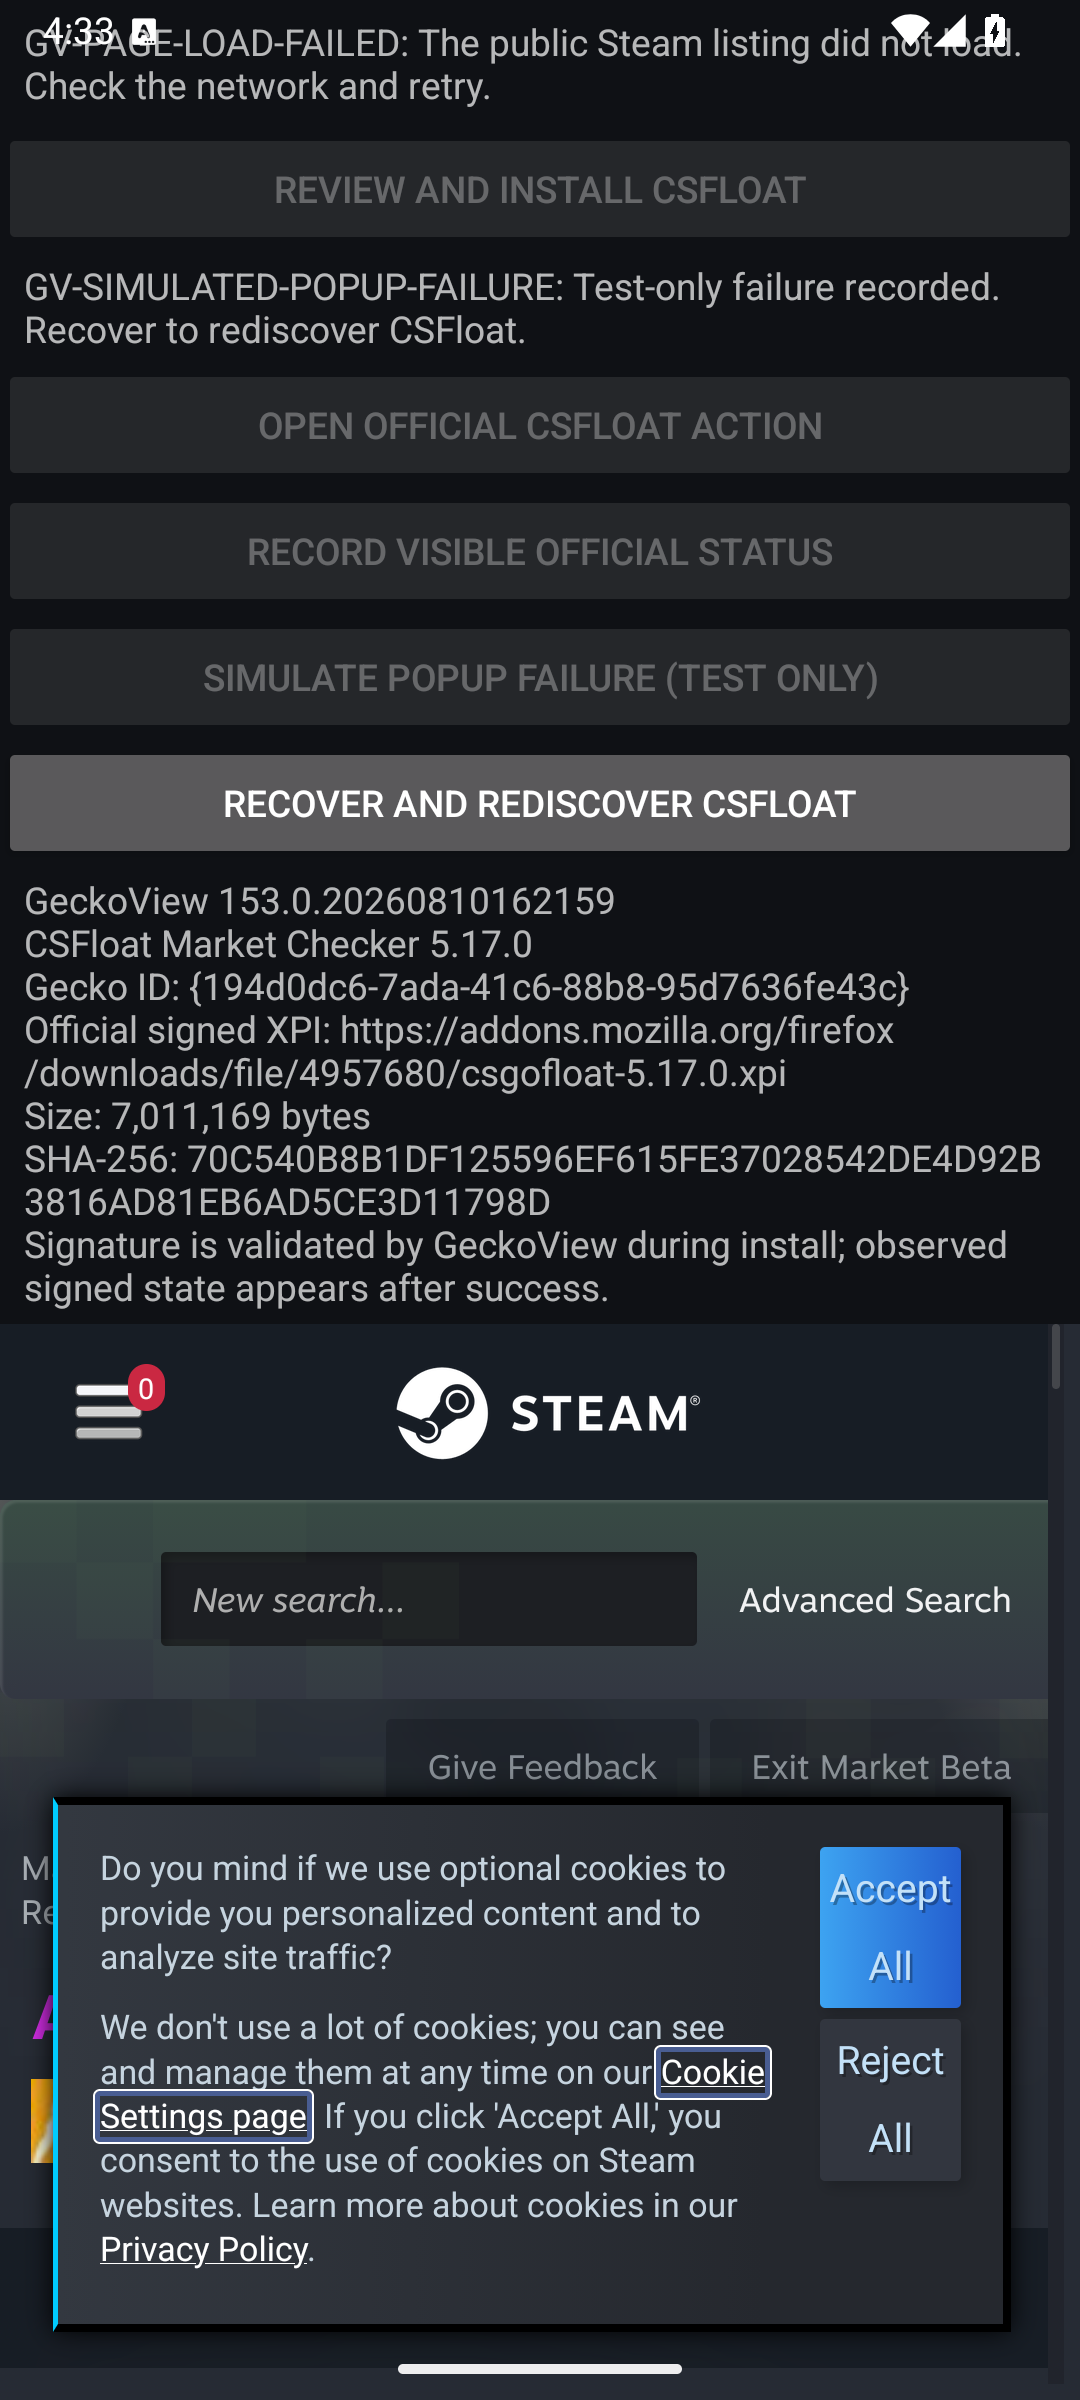
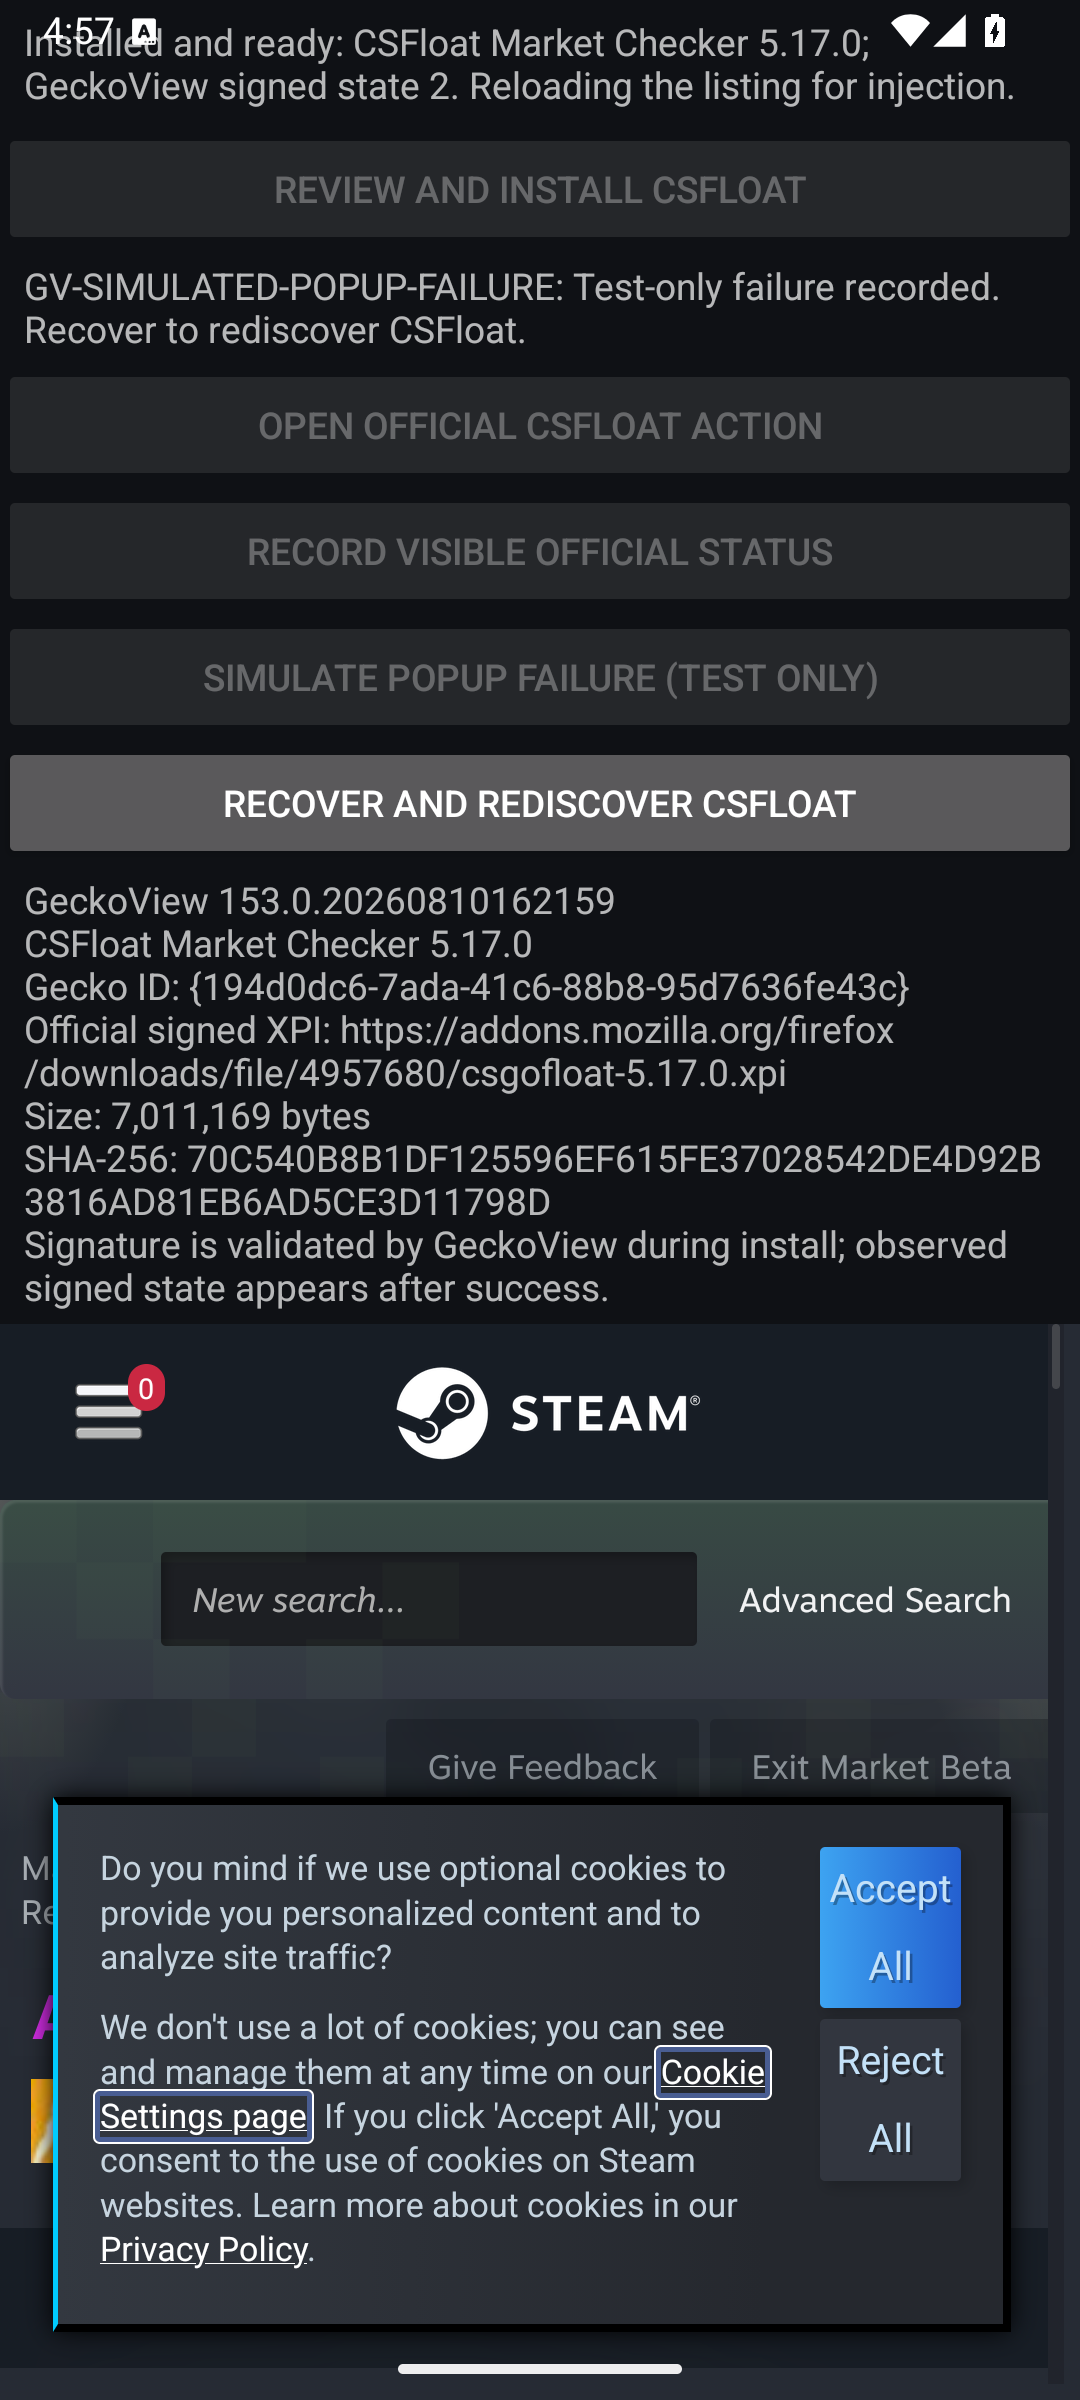
docs(prototype): refresh issue 5 proof after repair

Changed region(s): [[0.0306, 0.0, 0.9167, 0.0625]]

diff --git a/docs/verification/geckoview-issue-5-emulator-run.md b/docs/verification/geckoview-issue-5-emulator-run.md
@@ -9,15 +9,15 @@ not record an issue #7 `GO` decision.
 
 | Field | Value |
 | --- | --- |
-| App source commit and build variant | `53aa3a73f4edaf885c960379cd7dadc4b88fd78e`, `debug` |
[1 lines of base64/hex data omitted]
+| App source commit and build variant | `4ba640317bc174926fb2e60f351ba21ef8344448`, `debug` |
[1 lines of base64/hex data omitted]
 | GeckoView | `153.0.20260810162159`, stable Maven artifact |
 | CSFloat | Official signed Firefox artifact, ID `{194d0dc6-7ada-41c6-88b8-95d7636fe43c}`, version `5.17.0`, GeckoView signed state `2` |
[1 lines of base64/hex data omitted]
 | Host | Windows 11 Pro 64-bit, version `10.0.26200`, build `26200`; Android Studio 2025.2.1 build `AI-252.25557.131.2521.14432022` |
 | Android target | Dedicated AVD `Codex_GeckoView_Campaign_API_36`, serial `emulator-5580`, Android 16/API 36, `x86_64` |
 | Emulator tooling | Android Emulator `36.2.12.0` build `14214601`; adb `36.0.0-13206524` |
-| Test window | 2026-09-02 14:31:18–14:35:50 UTC |
+| Test window | 2026-09-02 14:55:18–14:58:20 UTC |
 | Gate result | Issue #5 machine scenarios pass. Authenticated tracking, alarms, physical-device behavior, and the issue #7 decision remain `NOT RUN`. |
 
 ## Commands and results
@@ -30,7 +30,7 @@ command used `-s emulator-5580`.
 $env:ANDROID_HOME='C:\Users\esmer\AppData\Local\Android\Sdk'
 $env:ANDROID_SERIAL='emulator-5580'
 .\gradlew.bat '-Dorg.gradle.java.home=C:/Program Files/Android/Android Studio/jbr' testDebugUnitTest assembleDebug lintDebug connectedDebugAndroidTest --rerun-tasks
-# exit 0: BUILD SUCCESSFUL; 21 unit tests, 9 instrumentation tests, debug assembly, and lint all passed
+# exit 0: BUILD SUCCESSFUL; 23 unit tests, 9 instrumentation tests, debug assembly, and lint all passed
 
 $adb='C:\Users\esmer\AppData\Local\Android\Sdk\platform-tools\adb.exe'
 & $adb -s emulator-5580 install -r .\app\build\outputs\apk\debug\app-debug.apk
@@ -76,14 +76,9 @@ Generated reports:
 | No optional runtime prompt | PASS | No optional-permission API is called. The Firefox artifact's install-time origins already include `*://*.steampowered.com/*`; the official popup therefore displayed its enabled state without an app-simulated prompt. |
 | Honest shell states | PASS | `UNAVAILABLE`, `READY`, `ACTIVE`, and `FAILED` have fixed messages. The [ready capture](evidence/issue-5/gv5-ready.png) shows status recording disabled before a popup. The [active capture](evidence/issue-5/gv5-active.png) was taken only after a second visible official popup. Both states explicitly defer authenticated proof to #7. |
 | Safe failure and recovery | PASS | The [failure capture](evidence/issue-5/gv5-failed.png) shows the clearly labeled deterministic failure and sole recovery action. The [recovered capture](evidence/issue-5/gv5-recovered.png) shows `READY` only after a fresh exact, enabled, same-identity engine query validated the cached action handle. |
-| Duplicate and late callbacks | PASS | Unit tests use monotonic request IDs and prove one in-flight dispatch, exact-once completion, and no state change from stale or duplicate callbacks. |
+| Duplicate and late callbacks | PASS | Unit tests use monotonic non-null request tokens and prove one in-flight dispatch, exact-once completion, null rejection, and no state change from stale or duplicate callbacks. The activity captures the pending token before `Action.click()` and ignores popup callbacks when no matching request is pending. |
 | Redacted diagnostics | PASS | App diagnostics are fixed `GV-*` messages. The bounded PID-only action-error filter found no active-tab, crash, or action failure match. No raw exception, popup DOM, browser storage, account identity, or network body was captured. |
 | GV-08 automation readiness | PASS | The complete popup/failure/recovery path was driven by exact-serial adb input and UI hierarchy inspection. Live authenticated tracking and alarm behavior remain `NOT RUN` for #7. |
-
-The public listing's separate page-status label retained a safe failure message
-during the post-install reload even though the public page remained rendered.
-This does not contribute to the action state or the `ACTIVE` transition; issue
-#6 owns relaunch-aware prototype lifecycle state.
 
 ## Reviewable evidence and privacy
 
@@ -95,11 +90,11 @@ inventory, trade details, payment information, or authentication UI. Popup UI
 hierarchy output was deliberately not retained because it included a randomized
 internal `moz-extension` URL that was unnecessary to prove the visible result.
 
[10 lines of base64/hex data omitted]
 
 ## Known limitations and non-claims
 
